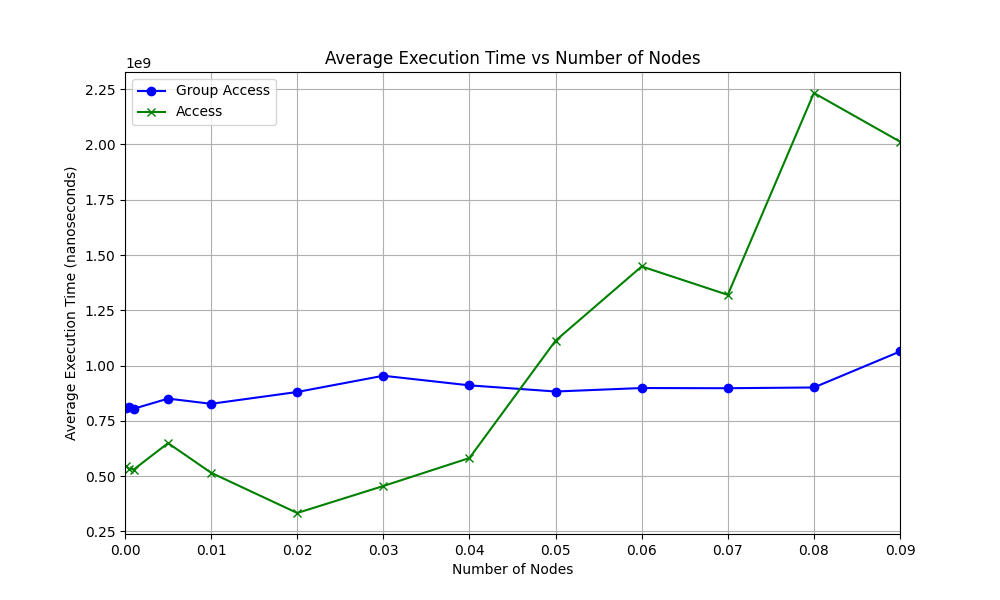
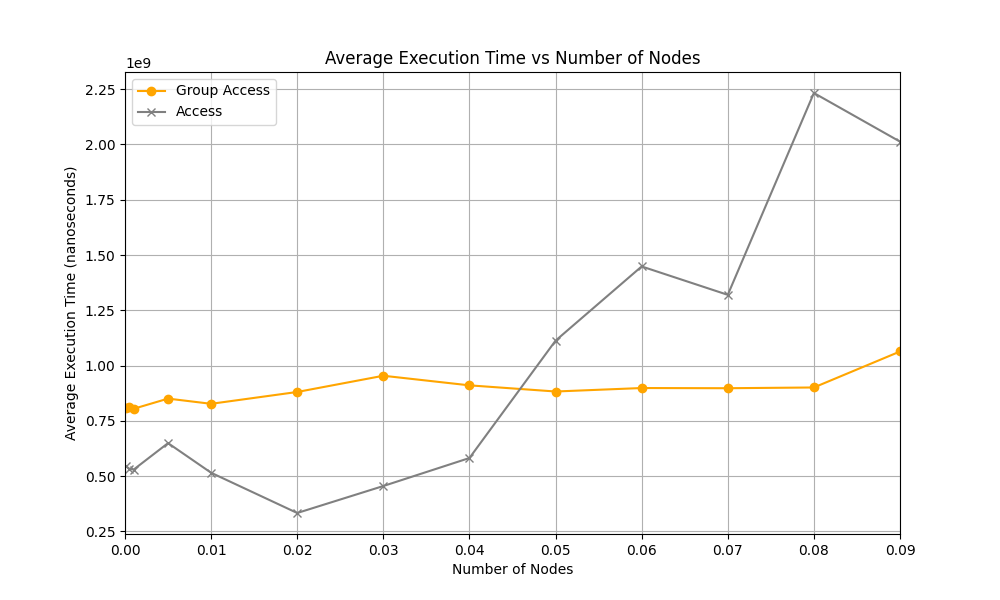
update

diff --git a/new-algo/result-1207/plt-ng.py b/new-algo/result-1207/plt-ng.py
@@ -260,7 +260,7 @@ def plot_execution_times(data, data2):
             unique_node_counts,
             avg_execution_times,
             marker="o",
-            color="blue",
+            color="orange",
             label="Group Access",
         )
 
@@ -286,7 +286,7 @@ def plot_execution_times(data, data2):
             unique_node_counts2,
             avg_execution_times2,
             marker="x",
-            color="green",
+            color="grey",
             label="Access",
         )
 
